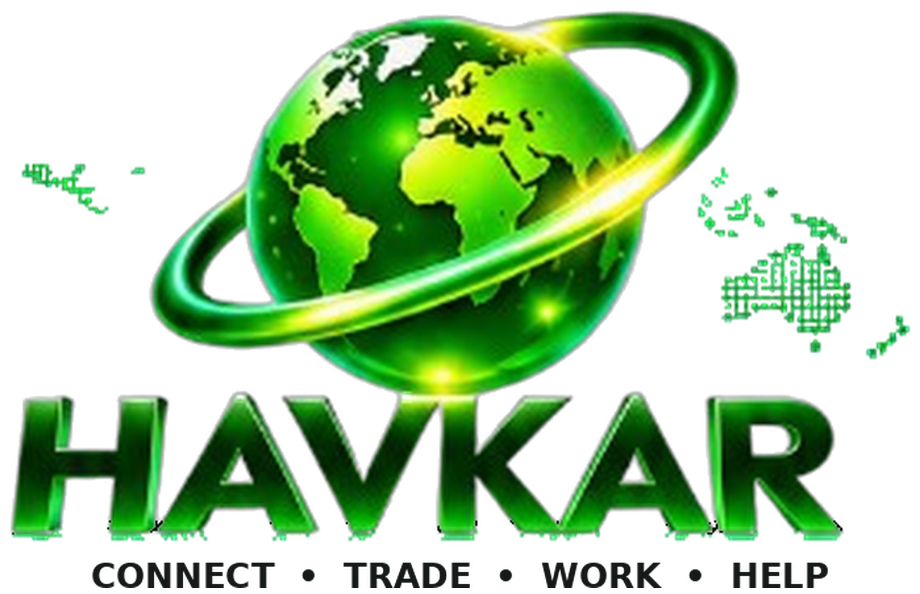
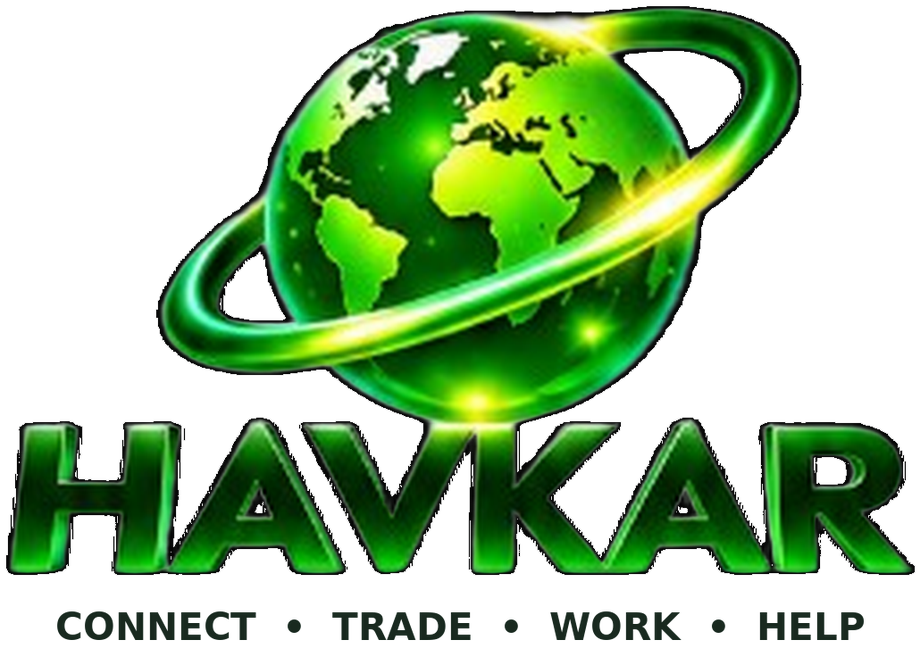
fix(home): clean independent map, healthy HAVKAR, single profile pill
Replace remnant-bearing background with a continuous Natural-Earth
dotted mint map, rebuild true-alpha header with intact letter bottoms
and slogan, and keep a clean curved horizon under one Profile pill.
Twelve icons remain MD5-frozen; no auth/payment changes.

diff --git a/index.html b/index.html
@@ -77,7 +77,7 @@ body {
     background-color: #dff5e4;
     /* Owner photo: continuous luminous mint map (no frosted wash plate) */
     background-image:
-        url("assets/home/home-mint-map-bg.png?v=owner-home-photo-match-20261128e");
+        url("assets/home/home-mint-map-bg.png?v=owner-home-layers-clean-20261128f");
     background-size: cover;
     background-position: center top;
     background-repeat: no-repeat;
@@ -537,14 +537,14 @@ h1 {
 .home-globe-curve {
     position: absolute;
     left: 50%;
-    bottom: 0;
+    bottom: -6px;
     transform: translateX(-50%);
-    width: 108%;
+    width: 118%;
     max-width: none;
     height: auto;
     pointer-events: none;
     z-index: 0;
-    opacity: 0.98;
+    opacity: 1;
 }
 
 .home-settings-bar {
@@ -567,9 +567,10 @@ h1 {
             #0a9a2e 72%,
             #087a24 100%
         );
+    /* Soft pill glow only — no rectangular plate/shadow slab */
     box-shadow:
-        0 10px 22px rgba(12, 120, 40, 0.26),
-        0 0 18px rgba(80, 255, 140, 0.20),
+        0 8px 18px rgba(12, 120, 40, 0.22),
+        0 0 16px rgba(80, 255, 140, 0.18),
         inset 0 2px 0 rgba(255, 255, 255, 0.45),
         inset 0 -2px 0 rgba(0, 60, 20, 0.25);
     border: 1px solid rgba(8, 90, 28, 0.18);
@@ -793,7 +794,7 @@ html[data-havkar-entry="home"] .havkar-legal-footer {
         <p class="visually-hidden" data-i18n="tagline">Connect • Trade • Work • Help</p>
         <img
             class="home-header"
-            src="assets/home/header.png?v=owner-home-photo-match-20261128e"
+            src="assets/home/header.png?v=owner-home-layers-clean-20261128f"
             alt="HAVKAR. Connect • Trade • Work • Help"
             width="1024"
             height="594"
@@ -879,7 +880,7 @@ html[data-havkar-entry="home"] .havkar-legal-footer {
     <div class="home-globe-horizon" data-havkar-home-horizon="1">
         <img
             class="home-globe-curve"
-            src="assets/home/home-globe-horizon.png?v=owner-home-photo-match-20261128e"
+            src="assets/home/home-globe-horizon.png?v=owner-home-layers-clean-20261128f"
             alt=""
             width="1200"
             height="146"
